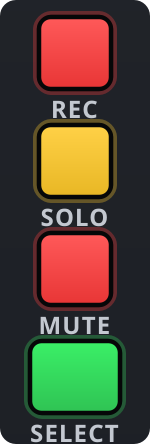
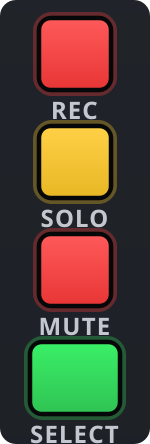
GUI: the screenshots come from the window in Qt Quick

diff --git a/scripts/screenshot.py b/scripts/screenshot.py
@@ -10,7 +10,7 @@ import os
 import sys
 import tempfile
 from pathlib import Path
-from typing import TYPE_CHECKING
+from typing import TYPE_CHECKING, Any
 
 if TYPE_CHECKING:
     from PyQt6.QtCore import QRectF
@@ -110,12 +110,14 @@ def shoot(home: Path, out: Path) -> None:
     from PyQt6.QtCore import QCoreApplication, QSettings
     from PyQt6.QtNetwork import QLocalServer
     from PyQt6.QtWidgets import QApplication
-    from xtouch_daemon.gui.qt.theme.style import apply_theme
-    from xtouch_daemon.gui.qt.window.main_window import MainWindow
 
-    from xtouch_daemon.audio.model import AudioState, Card, Device, Direction, Profile, Stream
+    from xtouch_daemon.audio.model import DISCONNECTED, AudioState, Card, Device, Direction, Profile, Stream
     from xtouch_daemon.gui.domain.slots_document import SlotsDocument
     from xtouch_daemon.gui.domain.tokens import Motion, ThemeMode
+    from xtouch_daemon.gui.quick.app import App, Dependencies, close_window, load_window
+    from xtouch_daemon.gui.quick.device.geometry import PANEL
+    from xtouch_daemon.gui.quick.engine import make_engine
+    from xtouch_daemon.gui.quick.theme import Theme
     from xtouch_daemon.live.codec import encode
     from xtouch_daemon.live.messages import (
         FEATURES,
@@ -133,10 +135,9 @@ def shoot(home: Path, out: Path) -> None:
     QCoreApplication.setOrganizationName("xtouch-daemon-screenshot")
     QCoreApplication.setApplicationName("xtouch-daemon-screenshot")
     QSettings.setPath(QSettings.Format.NativeFormat, QSettings.Scope.UserScope, str(home / "settings"))
-    app = QApplication(sys.argv[:1])
+    qapp = QApplication(sys.argv[:1])
     # every change at once: a picture shows the end of it, not a fade
     Motion.enabled = False
-    apply_theme(ThemeMode.DARK)
 
     path = home / "config" / "xtouch-daemon" / "config.toml"
     path.parent.mkdir(parents=True)
@@ -227,18 +228,28 @@ def shoot(home: Path, out: Path) -> None:
         return ""
 
     daemon = Instance(os.getpid(), path.resolve(), systemd=True)
-    window = MainWindow(document, Service(systemctl), lambda: audio, lambda: daemon, socket)
+    app = App(Dependencies(document, Service(systemctl), lambda: audio, lambda: daemon, live_socket=socket))
+    engine = make_engine(Theme(ThemeMode.DARK))
+    window = load_window(app, engine)
     window.resize(*SIZE)
     window.show()
-    wait(app, lambda: window.live.snapshot is not None and window.audio_label.text() != "Reading the sound server…")
-    window.device_view.select(SELECTED)
-    settle(app)
+    shell = app.shell
+    wait(qapp, lambda: shell.live.snapshot is not None and shell.audio is not DISCONNECTED)
+    slots: Any = app.slots
+    slots.selectSlot(SELECTED + 1)
+    settle(qapp)
     # the path of the file (in the temporary directory) is in the title of the window, which a grab doesn't show
 
     out.mkdir(parents=True, exist_ok=True)
-    save(window.grab(), out / "gui.png")
-    save(window.device_view.preview.grab(), out / "device.png")
-    window.close()
+    whole = window.grabWindow()
+    save_image(whole, out / "gui.png")
+    stage = find(window, "drawingStage")
+    device: Any = app.device
+    drawing = device.drawing
+    save_image(
+        crop_of(whole, window, stage, drawing.origin.y() - 3, PANEL.height() * drawing.scale + 6), out / "device.png"
+    )
+    close_window(engine, app)
     server.close()
     shoot_controls(out / "controls")
 
@@ -334,56 +345,68 @@ CONTROL_SCALE = 2.0
 
 def render_part(state: StripState, crop: QRectF, scale: float) -> QImage:
     """The strip showing `state`, cut to `crop` (in logical units of a strip), with rounded corners."""
-    from PyQt6.QtCore import QPoint, QPointF, QRectF, Qt
-    from PyQt6.QtGui import QImage, QKeyEvent, QPainter, QPainterPath, QRegion
-    from PyQt6.QtWidgets import QWidget
-    from xtouch_daemon.gui.qt.preview.strip_view import StripView
+    from PyQt6.QtCore import QPointF, QRectF, Qt
+    from PyQt6.QtGui import QImage, QPainter, QPainterPath
 
     from xtouch_daemon.gui.domain.looks import StripFace, StripLook
-    from xtouch_daemon.gui.quick.device.geometry import HEIGHT, WIDTH
+    from xtouch_daemon.gui.quick.device.render import render_strip
 
-    class Host(QWidget):
-        """What a strip asks of the drawing it is in: a fixed scale, nothing that moves, no mouse."""
-
-        def __init__(self) -> None:
-            super().__init__()
-            self.scale = scale
-            self.blink = True
-            self.now = 0.0
-            self.resizing = False
-            self.hand = None
-            self.mover = None
-
-        def pick(self, index: int) -> None:
-            pass
-
-        def key(self, index: int, event: QKeyEvent) -> bool:
-            return False
-
-    host = Host()
-    view = StripView(host, 2)
-    view.resize(round(WIDTH * scale), round(HEIGHT * scale))
-    view.move(round(-crop.left() * scale), round(-crop.top() * scale))
-    host.resize(round(crop.width() * scale), round(crop.height() * scale))
-    look = StripLook("preview", state.text[0], "", state.color, printed=" ")
-    view.show_face(StripFace(look, state, live=True, dimmed=False), False)
     ratio = 2
-    image = QImage(host.width() * ratio, host.height() * ratio, QImage.Format.Format_ARGB32_Premultiplied)
-    image.setDevicePixelRatio(ratio)
-    image.fill(Qt.GlobalColor.transparent)
-    host.render(image, QPoint(), QRegion(), QWidget.RenderFlag.DrawChildren)
-    rounded = QImage(image.size(), QImage.Format.Format_ARGB32_Premultiplied)
+    look = StripLook("preview", state.text[0], "", state.color, printed=" ")
+    whole = render_strip(StripFace(look, state, live=True, dimmed=False), scale, ratio)
+    pixels = ratio * scale
+    cut = whole.copy(
+        round(crop.left() * pixels),
+        round(crop.top() * pixels),
+        round(crop.width() * pixels),
+        round(crop.height() * pixels),
+    )
+    cut.setDevicePixelRatio(ratio)
+    width, height = cut.width() / ratio, cut.height() / ratio
+    rounded = QImage(cut.size(), QImage.Format.Format_ARGB32_Premultiplied)
     rounded.setDevicePixelRatio(ratio)
     rounded.fill(Qt.GlobalColor.transparent)
     painter = QPainter(rounded)
     painter.setRenderHint(QPainter.RenderHint.Antialiasing)
     path = QPainterPath()
-    path.addRoundedRect(QRectF(0, 0, host.width(), host.height()), 8, 8)
+    path.addRoundedRect(QRectF(0, 0, width, height), 8, 8)
     painter.setClipPath(path)
-    painter.drawImage(QPointF(), image)
+    painter.drawImage(QPointF(), cut)
     painter.end()
-    host.deleteLater()
     return rounded
+
+
+def find(window: object, name: str) -> object:
+    """The item of the window named `name`."""
+    from PyQt6.QtQuick import QQuickItem, QQuickWindow
+
+    assert isinstance(window, QQuickWindow)
+    stack: list[QQuickItem] = [window.contentItem()]  # pyright: ignore[reportAssignmentType]
+    while stack:
+        item = stack.pop()
+        if item.objectName() == name:
+            return item
+        stack.extend(item.childItems())
+    raise LookupError(name)
+
+
+def crop_of(whole: QImage, window: object, item: object, top: float, height: float) -> QImage:
+    """The part of a picture of the window that an item covers, from `top` of it, `height` high."""
+    from PyQt6.QtCore import QPointF
+    from PyQt6.QtQuick import QQuickItem, QQuickWindow
+
+    assert isinstance(item, QQuickItem)
+    assert isinstance(window, QQuickWindow)
+    ratio = window.devicePixelRatio()
+    top_left = item.mapToScene(QPointF(0, top))
+    cut = whole.copy(
+        round(top_left.x() * ratio),
+        round(top_left.y() * ratio),
+        round(item.width() * ratio),
+        round(height * ratio),
+    )
+    cut.setDevicePixelRatio(ratio)
+    return cut
 
 
 def side_by_side(parts: list[QImage], gap: int = 8) -> QImage:
@@ -433,14 +456,6 @@ def settle(app: object, seconds: float = 0.5) -> None:
         # outside of `exec()` Qt deletes no widgets by itself: the pages replaced by a selection would stay visible
         QCoreApplication.sendPostedEvents(None, QEvent.Type.DeferredDelete)
         time.sleep(0.01)
-
-
-def save(picture: object, path: Path) -> None:
-    from PyQt6.QtGui import QPixmap
-
-    assert isinstance(picture, QPixmap)
-    assert picture.save(str(path), "PNG", 0), path  # 0: the smallest file
-    print(f"{path.relative_to(ROOT) if path.is_relative_to(ROOT) else path}: {picture.width()}x{picture.height()}")
 
 
 def save_image(image: QImage, path: Path) -> None:
